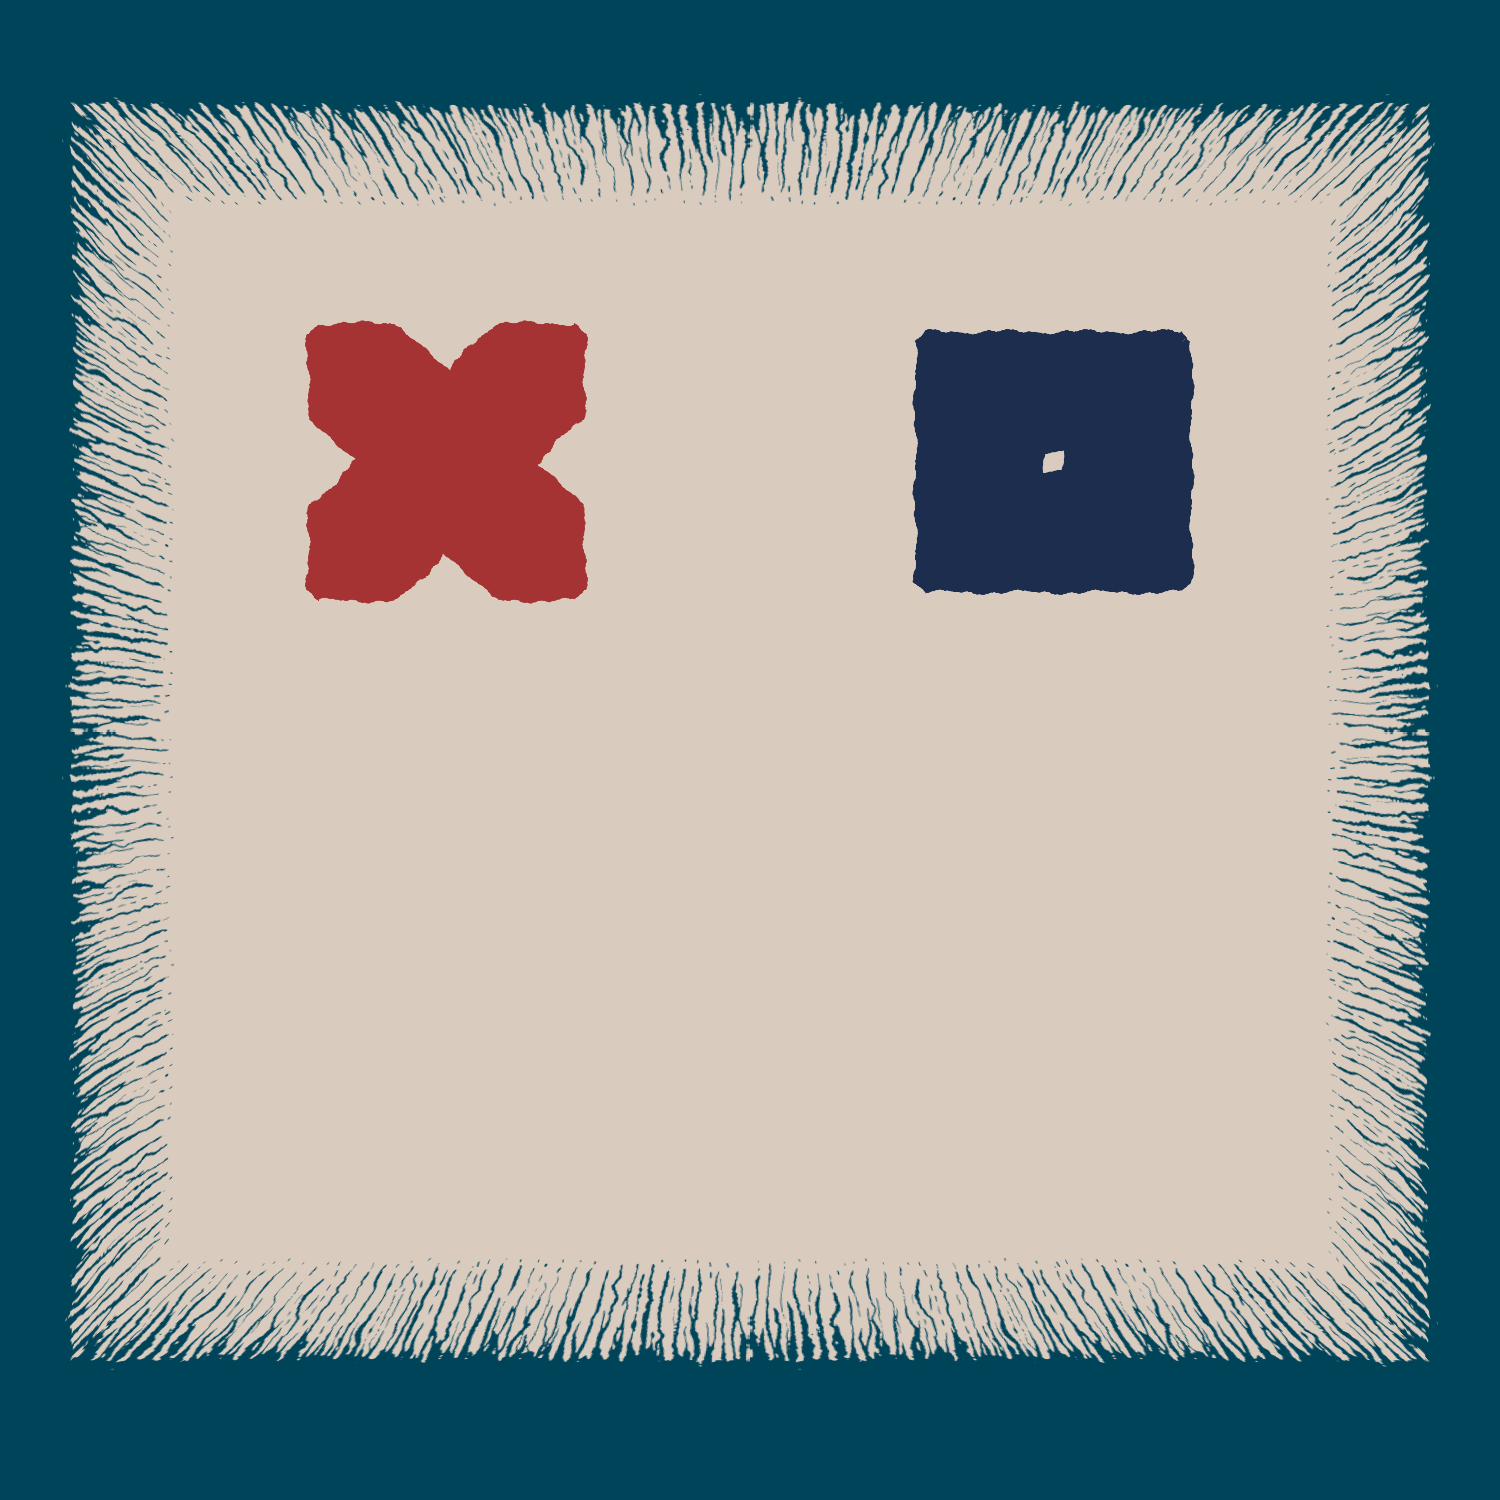
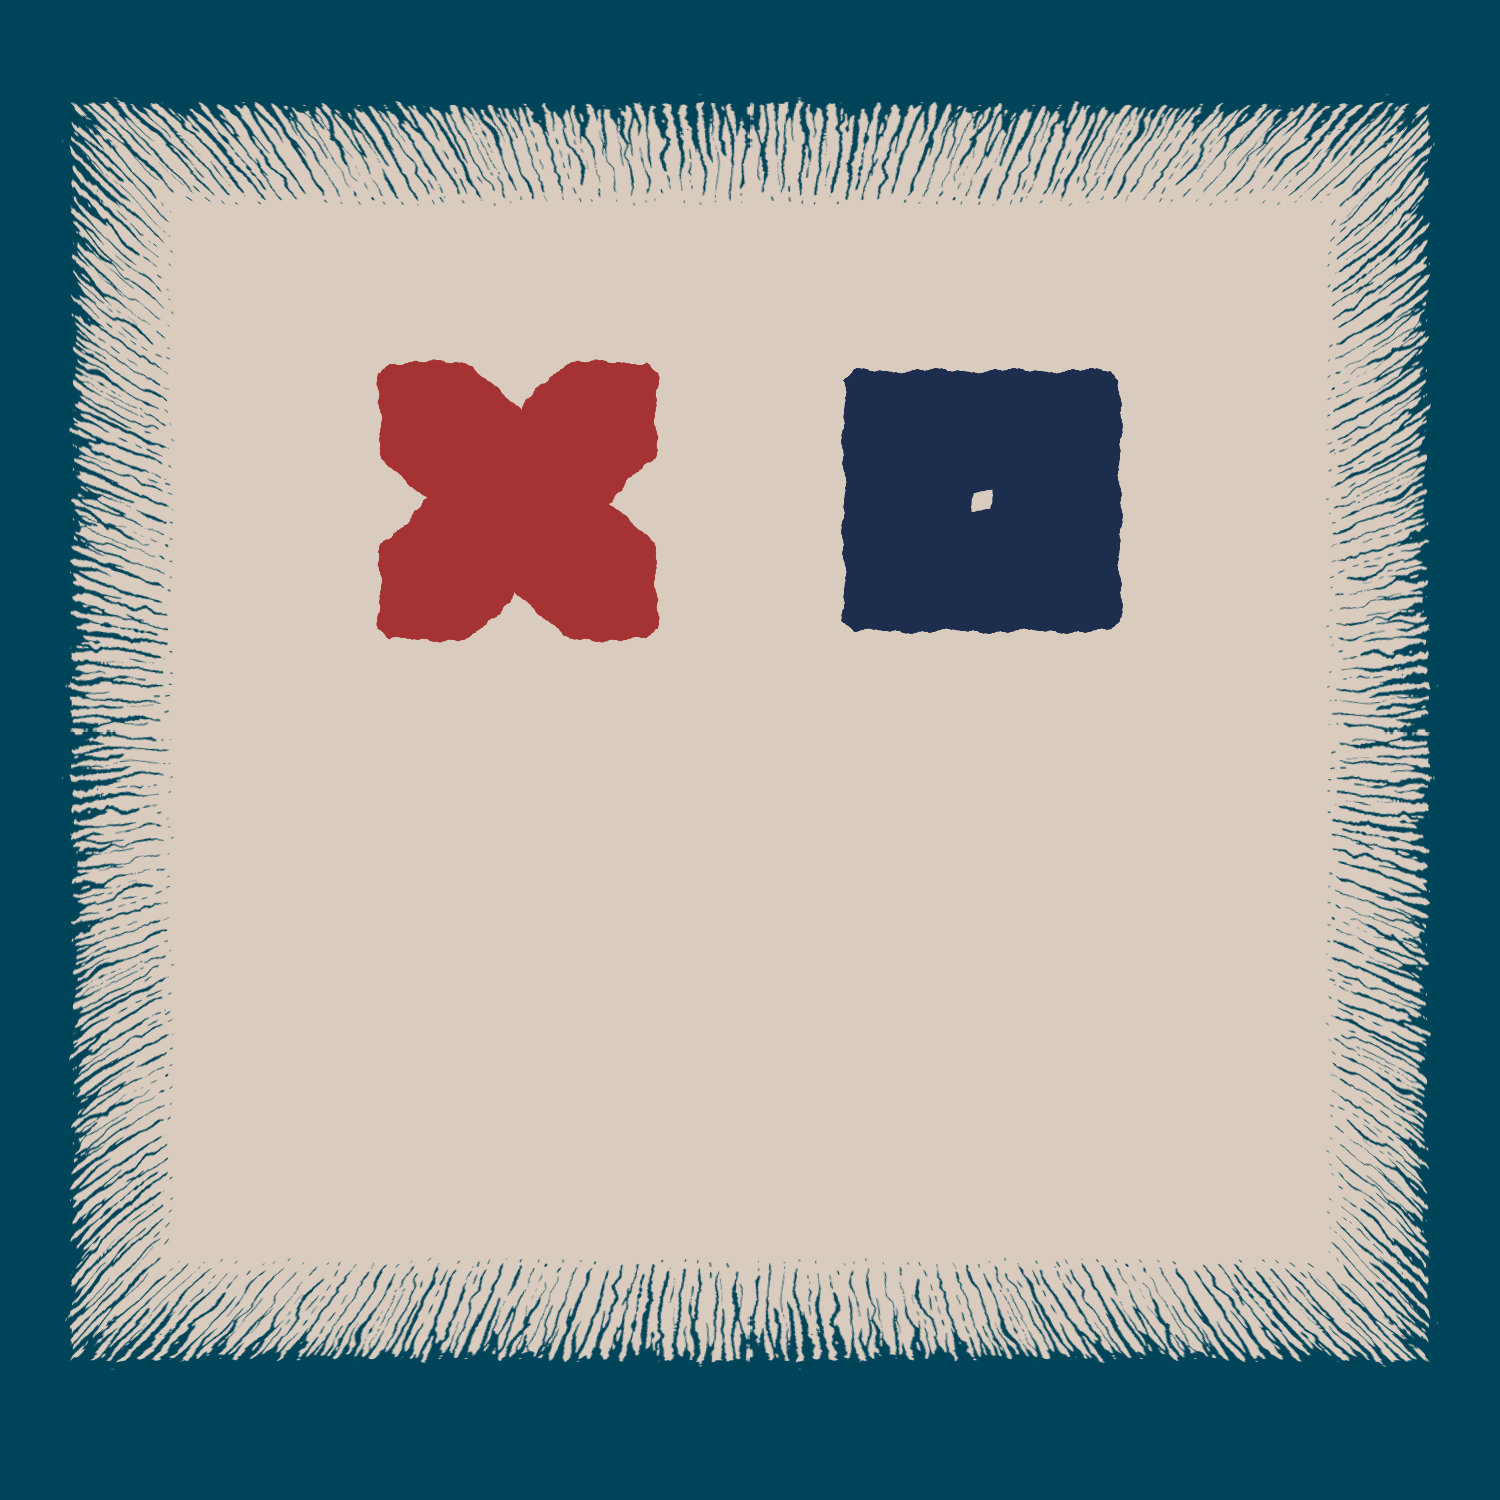
Add text input to let user change players name

Changed region(s): [[0.184, 0.2147, 0.46, 0.4293], [0.552, 0.2147, 0.7973, 0.4293], [0.644, 0.3067, 0.6747, 0.3373]]

diff --git a/styles.css b/styles.css
@@ -148,24 +148,51 @@ body {
 
 #setup-names {
   display: flex;
-  gap: 30px;
-  padding: 250px 70px 0;
+  justify-content: center;
+  gap: 16px;
+  padding-top: 270px;
 }
 
-#setup-names div {
-  flex: 1;
+#setup-names input {
+  appearance: none;
+  border: none;
+  background-color: #d1c2b6;
+  border: 1px solid #d1c2b6;
+  font-family: "DarumadropOne", var(--fallback-font-stack);
+  border-radius: 10px;
   text-align: center;
+  width: 17ch;
+}
+
+#setup-names input:focus {
+  outline: none;
+  border: 1px solid #8a8077;
+}
+
+#edit-players-info {
+  display: flex;
+  justify-content: center;
+  font-family: "DarumadropOne", var(--fallback-font-stack);
+  color: #556c8d;
 }
 
 #setup-game-section div:has(button) {
   display: flex;
   justify-content: center;
-  margin-top: 20px;
 }
 
 #setup-game-section button {
-  height: 40px;
-  width: 200px;
+  width: 250px;
+  padding-bottom: 20px;
+  font-size: 5rem;
+  font-family: "DarumadropOne", var(--fallback-font-stack);
+  background-color: #d9cbbf;
+  color: #1e1e1e;
+  border: none;
+}
+
+#setup-game-section button:hover {
+  color: #b6873b;
 }
 
 #setup-game-section img {

diff --git a/index.html b/index.html
@@ -11,8 +11,11 @@
   <h1 id="title">TIC TAC <em>TOP</em></h1>
   <section id="setup-game-section" class="visible">
     <div id="setup-names">
-      <div>PLAYER 1</div>
-      <div>PLAYER 2</div>
+      <input type="text" id="player1-name" maxlength="15" pattern="[a-zA-Z]+" placeholder="PLAYER 1">
+      <input type="text" id="player2-name" maxlength="15" pattern="[a-zA-Z]+" placeholder="PLAYER 2">
+    </div>
+    <div id="edit-players-info">
+      <p>CHANGE PLAYERS NAME</p>
     </div>
     <div>
       <button type="button">PLAY</button>